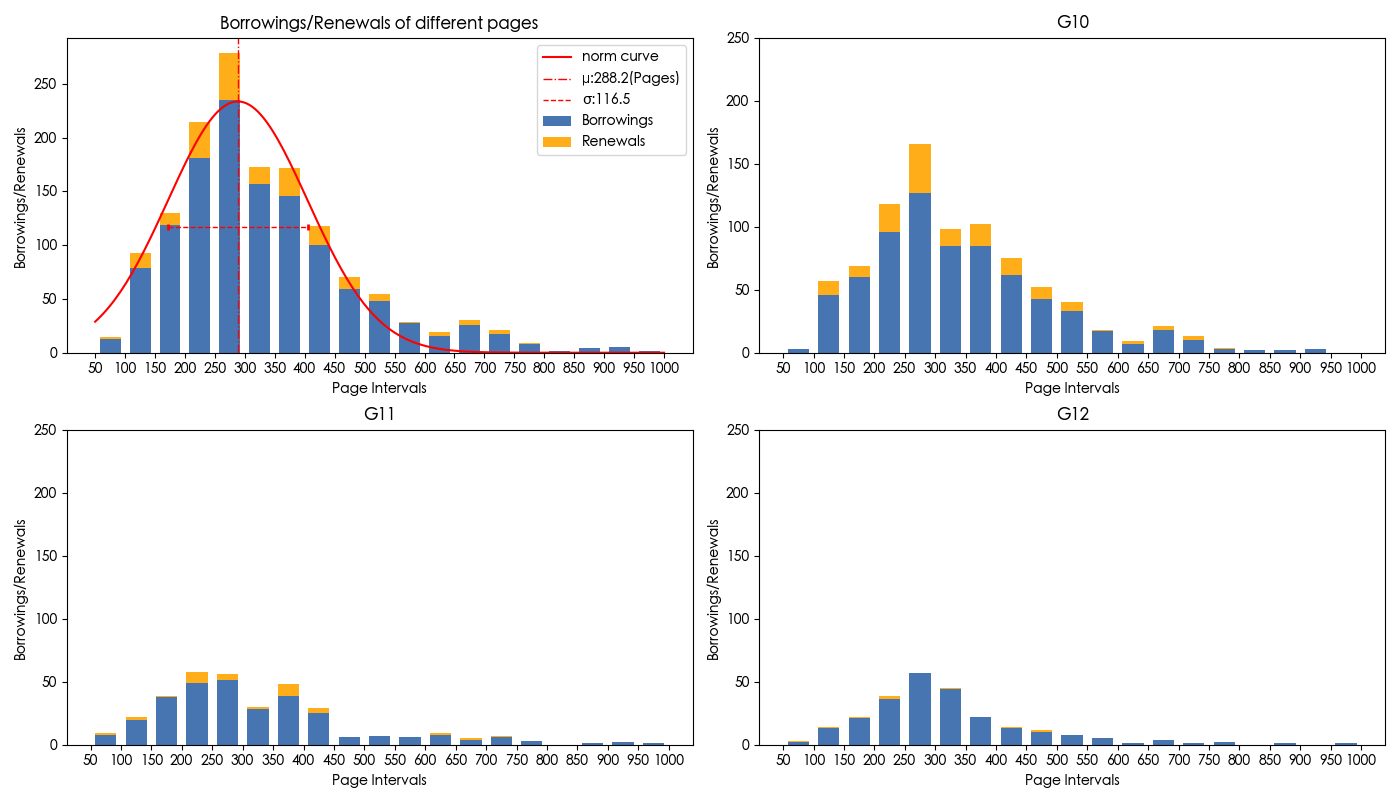
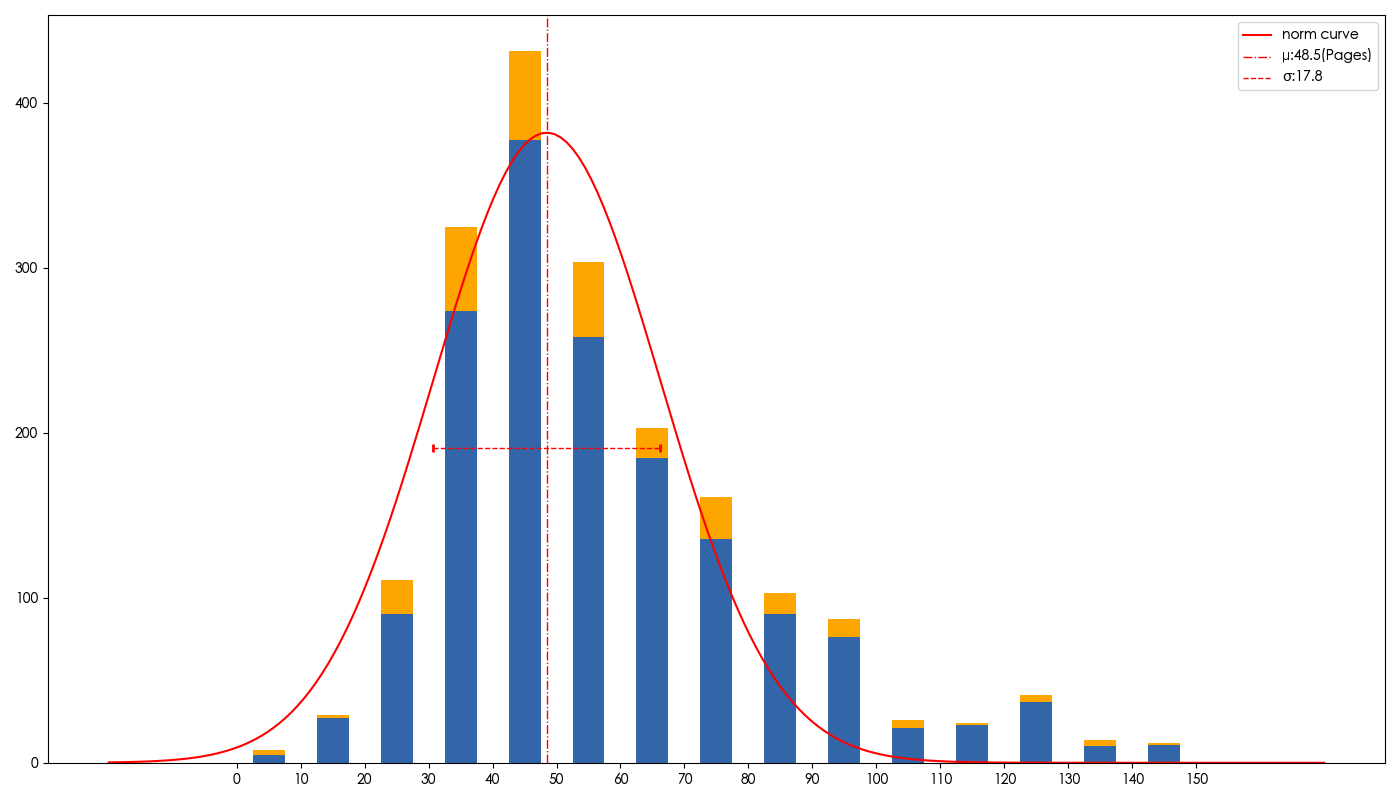
norm fit

diff --git a/code/价格分布_zoom.py b/code/价格分布_zoom.py
@@ -1,0 +1,78 @@
+import pandas as pd
+import matplotlib.pyplot as plt
+from matplotlib.ticker import MaxNLocator, FixedLocator
+import numpy as np
+from scipy.optimize import curve_fit
+import cal_for_three_class
+import color
+
+
+df = pd.read_excel("/Users/zzyyio/PycharmProjects/25-26 2nd term MT3 for students/dataset/all.xlsx"
+                   ,sheet_name="Sheet1")
+
+df = df[df["Circulation Type"].isin(["外借","续借"])]
+# 2️⃣ 提取页数（数字部分）
+date_col = "Price"
+df['price'] = df[date_col]
+small_bins = [0,10,20,30,40,50,60,70,80,90,100,110,120,130,140,150]
+small_bins_mid = [5,15,25,35,45,55,65,75,85,95,105,115,125,135,145]
+
+
+df['small_price_range'] = pd.cut(df['price'], bins=small_bins, right=False)
+small_counts = df['small_price_range'].value_counts().sort_index()
+small_counts_separate = df.groupby(["small_price_range", "Circulation Type"]).size().unstack(fill_value=0).reset_index()
+
+
+
+
+small_price_mean=0
+indexer=0
+for interval in small_bins_mid[1::]:
+    small_price_mean += interval * small_counts.values[indexer]
+    indexer += 1
+small_price_mean /= small_counts.values.sum()
+small_price_mean = float(round(small_price_mean, 2))
+
+
+def normal_func(x, A, mu, sigma):
+    return A * np.exp(-(x-mu)**2 / (2*sigma**2))
+
+# 用 bin_mid 和 counts.values 拟合
+popt, _ = curve_fit(normal_func, small_bins_mid, small_counts.values, p0=[max(small_counts.values), small_price_mean, 50])
+
+
+A,mu,sigma=popt
+# 拟合曲线
+x_smooth = np.linspace(small_bins_mid[0]-25, small_bins_mid[-1]+25, 200)
+y_smooth = normal_func(x_smooth, *popt)
+
+# ===================== 5. 画图 =====================
+
+plt.rcParams['font.sans-serif'] = ['Heiti TC']  # macOS 系统自带
+plt.rcParams['axes.unicode_minus'] = False  # 负号正常显示
+
+fig, zoomin = plt.subplots(1, 1, figsize=(14, 8))
+
+vh_color=color.line_color1
+line_color=color.line_color1
+
+width_color=color.line_color1
+
+zoomin.plot(x_smooth, y_smooth, color=line_color, linestyle='-', label='norm curve')
+zoomin.axvline(x=mu, color=vh_color, linestyle='dashdot',linewidth=1,label=f'μ:{mu:.1f}(Pages)')
+
+
+zoomin.hlines(y=A*0.5, xmin=mu - sigma, xmax=mu + sigma, color=width_color, linestyle='--', linewidth=1, label=f'σ:{sigma:.1f}')
+zoomin.vlines([mu - sigma, mu + sigma], A*0.5 - 5/2, A*0.5 + 5/2, color=width_color, linewidth=2)
+
+zoomin.bar(small_bins_mid,small_counts_separate["外借"],width=5,color=color.bar_color1)
+zoomin.bar(small_bins_mid,small_counts_separate["续借"],bottom=small_counts_separate["外借"],width=5,color=color.bar_color2)
+
+zoomin.xaxis.set_major_locator(FixedLocator(small_bins))
+
+zoomin.legend()
+
+plt.tight_layout()
+
+plt.savefig('../rendering/页数.png')
+plt.show()

diff --git a/code/价格分布.py b/code/价格分布.py
@@ -1,0 +1,67 @@
+import pandas as pd
+import matplotlib.pyplot as plt
+from matplotlib.ticker import MaxNLocator, FixedLocator
+import numpy as np
+from scipy.optimize import curve_fit
+import cal_for_three_class
+import color
+
+
+df = pd.read_excel("/Users/zzyyio/PycharmProjects/25-26 2nd term MT3 for students/dataset/all.xlsx"
+                   ,sheet_name="Sheet1")
+
+df = df[df["Circulation Type"].isin(["外借","续借"])]
+# 2️⃣ 提取页数（数字部分）
+date_col = "Price"
+df['price'] = df[date_col]
+
+# 4️⃣ 定义页数区间（可根据需要修改）
+bins_mid = [12.5, 37.5, 62.5, 87.5, 112.5, 137.5, 162.5, 187.5, 212.5, 237.5, 262.5, 287.5, 312.5, 337.5, 362.5, 387.5, 412.5, 437.5, 462.5, 487.5]
+bins = [0,25,50,75,100,125,150,175,200,225,250,275,300,325,350,375,400,425,450,475,500]
+labels = ["0-25","25-50","50-75","75-100","100-125","125-150","150-175","175-200","200-225","225-250","250-275","275-300","300-325","325-350","350-375","375-400","400-425","425-450","450-475","475-500"]
+
+# 5️⃣ 分页统计
+# df=df[df['pages'] > 50]
+df['prices_range'] = pd.cut(df['price'], bins=bins, labels=labels, right=False)
+counts = df['prices_range'].value_counts().sort_index()
+
+
+
+
+G10_processed,G11_processed,G12_processed=cal_for_three_class.price_process(df,"prices_range",bins,labels)
+counts_separate = df.groupby(["prices_range", "Circulation Type"]).size().unstack(fill_value=0).reset_index()
+
+
+def normal_func(x, A, mu, sigma):
+    return A * np.exp(-(x-mu)**2 / (2*sigma**2))
+
+# ===================== 5. 画图 =====================
+
+plt.rcParams['font.sans-serif'] = ['Heiti TC']  # macOS 系统自带
+plt.rcParams['axes.unicode_minus'] = False  # 负号正常显示
+
+fig, ((ax,g10),(g11,g12)) = plt.subplots(2, 2, figsize=(14, 8))
+
+
+ax.bar(bins_mid, counts_separate["外借"], width=10,color=color.bar_color1, alpha=color.alpha,label="Borrowings")
+ax.bar(bins_mid, counts_separate["续借"], bottom=counts_separate["外借"],color=color.bar_color2,width=10, alpha=color.alpha,label="Renewals")
+ax.set_xlabel('Page Intervals')
+
+ax.xaxis.set_major_locator(FixedLocator(bins))
+
+ax.set_ylabel('Borrowings/Renewals')
+ax.set_title('Borrowings/Renewals of different pages')
+
+
+vh_color=color.line_color1
+line_color=color.line_color1
+
+width_color=color.line_color1
+
+cal_for_three_class.price_show(g10, g11, g12, G10_processed, G11_processed, G12_processed, bins_mid, "外借", 10,
+                               alpha=color.alpha,bins=bins)
+ax.legend()
+plt.tight_layout()
+
+plt.savefig('../rendering/价格.png')
+plt.show()

diff --git a/code/c of write dates(no time intervals).py b/code/c of write dates(no time intervals).py
@@ -1,19 +1,46 @@
 import pandas as pd
 import matplotlib.pyplot as plt
 import color  # 假设 color.dot_size1, color.dot_color1 已定义
+import re
+from datetime import datetime
 
 # ---------- 读取 CSV ----------
 file_path = '/Users/zzyyio/PycharmProjects/25-26 2nd term MT3 for students/dataset/汇总结果.csv'
 df = pd.read_csv(file_path)
 
-# ---------- 提取写作年份 ----------
-df["写作日期"] = df["Publication time"].astype(str).str.extract(r'(\d{4})')[0]
 
-# ---------- 去掉缺失数据并排序 ----------
-df_write_year = df.dropna(subset=["写作日期", "平均借阅时间(天)", "总借入"])
-df_write_year = df_write_year.sort_values("写作日期")
+# ---------- 处理写作日期 ----------
+def parse_publication_date(s):
+    if pd.isna(s):
+        return None
+    # 取第一个出现的年份
+    match = re.search(r'(\d{4})', s)
+    if not match:
+        return None
+    year = int(match.group(1))
+
+    # 查找月份和日
+    month_day_match = re.search(r'(\d{4})[^\d]*(\d{1,2})[^\d]*(\d{1,2})?', s)
+    if month_day_match:
+        # 提取 month, day，若缺省则默认1
+        month = int(month_day_match.group(2)) if month_day_match.group(2) else 1
+        day = int(month_day_match.group(3)) if month_day_match.group(3) else 1
+    else:
+        month = 1
+        day = 1
+    try:
+        return datetime(year, month, day)
+    except:
+        return datetime(year, 1, 1)
 
 
+df['写作日期'] = df['Publication time'].astype(str).apply(parse_publication_date)
+
+# ---------- 去掉缺失数据 ----------
+df_clean = df.dropna(subset=['写作日期', '平均借阅时间(天)',"总借入"])
+df_clean["lend_duration_sum"]=df_clean["总借入"]*df_clean["平均借阅时间(天)"]
+# ---------- 按日期排序 ----------
+df_clean = df_clean.sort_values('写作日期')
 
 
 
@@ -24,15 +51,16 @@ df_write_year = df_write_year.sort_values("写作日期")
 plt.rcParams['font.sans-serif'] = ['Heiti TC']  # macOS 系统自带
 plt.rcParams['axes.unicode_minus'] = False  # 负号正常显示
 
+
 # ---------- 绘制散点图 ----------
-fig, ax = plt.subplots(1, 1, figsize=(8, 5))
-ax.scatter(df_write_year['写作日期'],
-           df_write_year['平均借阅时间(天)'],
+fig, ax = plt.subplots(figsize=(10, 6))
+ax.scatter(df_clean['写作日期'],
+           df_clean['lend_duration_sum'],
            s=color.dot_size1,
            c=color.dot_color1,
            alpha=0.7)
 
-ax.set_xlabel('Year')
+ax.set_xlabel('写作日期')
 ax.set_ylabel("平均借阅时间（天）")
 ax.set_title('写作日期 vs 平均借阅时间')
 ax.grid(True)
@@ -40,5 +68,5 @@ ax.grid(True)
 # ---------- 旋转 x 轴标签 ----------
 plt.setp(ax.get_xticklabels(), rotation=45)
 
-plt.tight_layout()  # 避免标签被截断
+plt.tight_layout()
 plt.show()

diff --git a/code/cal_for_three_class.py b/code/cal_for_three_class.py
@@ -26,6 +26,20 @@ def page_process(df,tgtstr,bins,labels):
     IB22G12_processed = IB22G12.groupby([tgtstr, "Circulation Type"]).size().unstack(fill_value=0).reset_index()
     return IB24G10_processed,IB23G11_processed,IB22G12_processed
 
+
+def price_process(df,tgtstr,bins,labels):
+    # 5️⃣ 分页统计
+    df = df[df['price'] > 50]
+    df['prices_range'] = pd.cut(df['price'], bins=bins, labels=labels, right=False)
+
+    IB24G10 = df[df["Grade"] == "IB24G10"]
+    IB23G11 = df[df["Grade"] == "IB23G11"]
+    IB22G12 = df[df["Grade"] == "IB22G12"]
+    IB24G10_processed = IB24G10.groupby([tgtstr, "Circulation Type"]).size().unstack(fill_value=0).reset_index()
+    IB23G11_processed = IB23G11.groupby([tgtstr, "Circulation Type"]).size().unstack(fill_value=0).reset_index()
+    IB22G12_processed = IB22G12.groupby([tgtstr, "Circulation Type"]).size().unstack(fill_value=0).reset_index()
+    return IB24G10_processed,IB23G11_processed,IB22G12_processed
+
 def show(g10,g11,g12,g10_data,g11_data,g12_data,x_label,y_label):
     g10.bar(g10_data[x_label],g10_data[y_label])
     g11.bar(g11_data[x_label],g11_data[y_label])
@@ -57,4 +71,34 @@ def page_show(g10,g11,g12,g10_data,g11_data,g12_data,bins,y_label,width,alpha):
     g10.set_title("G10")
     g11.set_title("G11")
     g12.set_title("G12")
+
+
+def price_show(g10,g11,g12,g10_data,g11_data,g12_data,mid_bins,y_label,width,alpha,bins):
+    g10.bar(mid_bins, g10_data[y_label], color=color.bar_color1, width=width, label=y_label, alpha=alpha)
+    g11.bar(mid_bins, g11_data[y_label], color=color.bar_color1, width=width, alpha=alpha)
+    g12.bar(mid_bins, g12_data[y_label], color=color.bar_color1, width=width, alpha=alpha)
+
+    g10.bar(mid_bins, g10_data["续借"], bottom=g10_data[y_label], color=color.bar_color2, width=width, alpha=alpha, label="续借")
+    g11.bar(mid_bins, g11_data["续借"], bottom=g11_data[y_label], color=color.bar_color2, width=width, alpha=alpha)
+    g12.bar(mid_bins, g12_data["续借"], bottom=g12_data[y_label], color=color.bar_color2, width=width, alpha=alpha)
+
+    g10.set_xlabel('Page Intervals')
+    g10.xaxis.set_major_locator(FixedLocator(bins))
+    g11.set_xlabel('Page Intervals')
+    g11.xaxis.set_major_locator(FixedLocator(bins))
+    g12.set_xlabel('Page Intervals')
+    g12.xaxis.set_major_locator(FixedLocator(bins))
+
+
+
+    g10.set_ylabel('Borrowings/Renewals')
+    g11.set_ylabel('Borrowings/Renewals')
+    g12.set_ylabel('Borrowings/Renewals')
+    # g11.set_ylim(0, 800)
+    # g12.set_ylim(0, 800)
+    # g10.set_ylim(0, 800)
+
+    g10.set_title("G10(Scaled)")
+    g11.set_title("G11(Scaled)")
+    g12.set_title("G12(Scaled)")
 